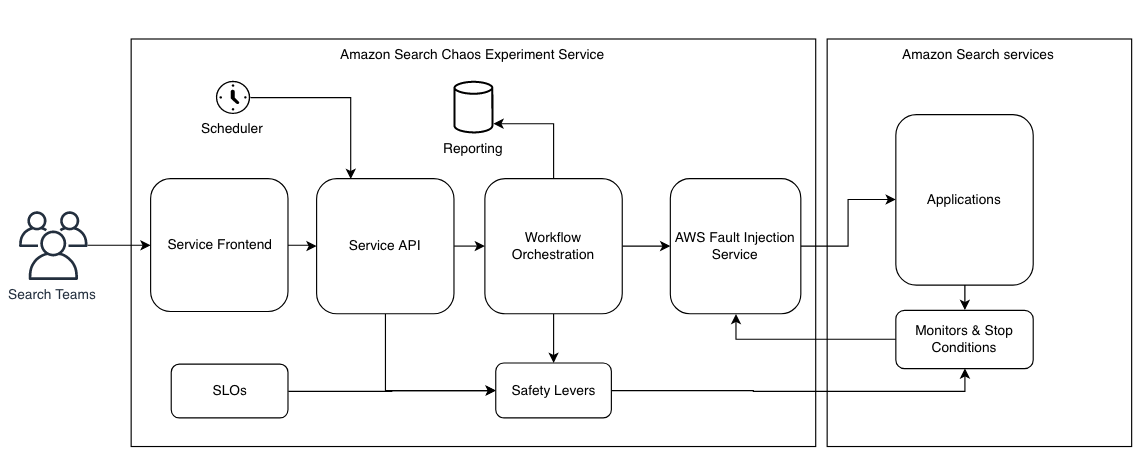
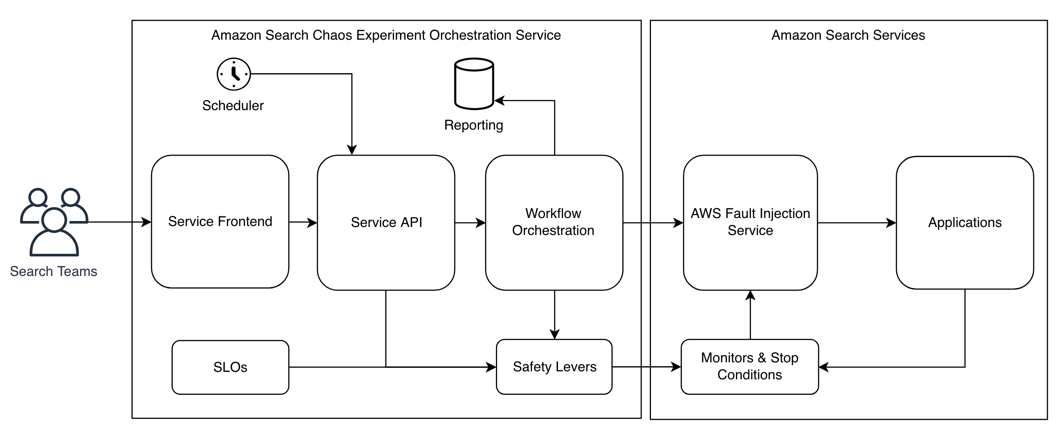
address feedback

Changed region(s): [[0.0, 0.0297, 0.9944, 0.9817], [0.7768, 0.238, 0.9011, 0.2677], [0.435, 0.8924, 0.5593, 0.9222]]

diff --git a/posts/amazon-search-chaos-engineering-journey/index.md b/posts/amazon-search-chaos-engineering-journey/index.md
@@ -13,7 +13,8 @@ authorName: Gorik Van Steenberge
 additionalAuthors:
   - authorGithubAlias: adhorn
     authorName: Adrian Hornsby
-  - authorName: Takieddine Sbiai
+  - authorGithubAlias: takieddine-sbiai
+    authorName: Takieddine Sbiai
   - authorName: Milosz Kosmider
 date: 2023-11-20
 ---
@@ -21,73 +22,82 @@ date: 2023-11-20
 |ToC|
 |---|
 
-Our [previous blog post](https://community.aws/posts/how-search-uses-chaos-engineering) provided an overview of how Amazon Search combines technology and culture to empower its builder teams, ensuring platform resilience through Chaos Engineering. In this follow-up, we will address questions and feedback received from the previous post. We will discuss our Search Resilience team, detailing our progression from running load tests in the production environment to adopting chaos engineering and conducting numerous large-scale experiments. We'll also explore the journey that brought us to this point and delve into the practical aspects and key milestones of this implementation.
+Our [previous blog post](/posts/how-search-uses-chaos-engineering) provided an overview of how Amazon Search combines technology and culture to empower its builder teams, ensuring platform resilience through chaos engineering. In this follow-up, we will address questions and feedback received from the previous post. We will discuss our Search Resilience team, detailing our progression from running load tests in the production environment to adopting chaos engineering and conducting numerous large-scale experiments. We'll also explore the journey that brought us to this point and delve into the practical aspects and key milestones of this implementation.
 
-## The first Search GameDay
+## The first Search GameDay in production
 
 Amazon Search owns the product search pages for Amazon mobile apps and websites worldwide. Serving search pages depends on a complex distributed system consisting of dozens of critical services: from the actual information retrieval search engine to rendering search pages with product images, pricing, delivery, and related information.
 
 ![Amazon search results page showing results for the query: chaos engineering](images/figure1.png "Figure 1. Amazon Search returns over 1,000 results for \"chaos engineering\"")
 
-There are dozens of teams building product search, but today we will talk about our Search Resilience team that improves the resilience of Amazon Search by running chaos experiments in production and driving and promoting resilience initiatives. The Resilience team is part of a larger [Operational Excellence](https://docs.aws.amazon.com/wellarchitected/latest/operational-excellence-pillar/welcome.html) organization within Search with the vision to make it effortless for service owners to run their services in production, so they can focus on their primary mission of improving the customer experience by providing the most relevant search results as fast as possible.
+There are dozens of teams building product search, but today we will talk about our Search Resilience team that improves the resilience of Amazon Search by enabling running chaos experiments in production at scale and driving and promoting resilience initiatives. The Resilience team is part of a larger [Operational Excellence](https://docs.aws.amazon.com/wellarchitected/latest/operational-excellence-pillar/welcome.html?sc_channel=el&sc_campaign=resilience&sc_geo=mult&sc_country=mult&sc_outcome=acq&sc_content=amazon-search-chaos-engineering-journey) organization within Search with the vision to make it effortless for service owners to run their services in production, so they can focus on their primary mission of improving the customer experience by providing the most relevant search results as fast as possible.
 
-Many years ago, our team was scaling up Search services to prepare for a sales event with a large projected increase in traffic. As was Standard Operating Procedure (SOP) at the time, we tested the performance of each service (e.g., TPS per server), added a safety buffer in case traffic would be higher than forecasted, and then scaled out the fleets horizontally. As the peak of customer requests during the event arrived, we were suddenly unable to serve some customer requests.
+Many years ago, our team was scaling up Search services to prepare for a sales event with a large projected increase in traffic. As was Standard Operating Procedure (SOP) at the time, we tested the performance of each service (e.g., Transaction-Per-seconds per server), added a safety buffer in case traffic would be higher than forecasted, and then scaled out the fleets horizontally. As the peak of customer requests during the event arrived, we were suddenly unable to serve some customer requests.
 
-We performed a [Correction of Errors (COE, aka “postmortem”)](https://aws.amazon.com/blogs/mt/why-you-should-develop-a-correction-of-error-coe/) to deep dive into the problem and identify corrective actions to prevent any recurrence. We arrived at two key insights: First, the bottleneck in our system had shifted without our awareness. It was no longer centered on the servers managing product indices. Instead, the bottleneck had migrated upstream to the component responsible for aggregating search requests across various indices. Second, we had reached a point where Search had grown so much in response to customer needs, that no individual engineer fully understood all bottlenecks, thresholds, queues, and failover mechanisms. A corrective action from this COE was to implement end-to-end production load tests of the fully scaled up system before peak, also known as [GameDays](https://www.usenix.org/conference/lisa11/gameday-creating-resiliency-through-destruction). This was to test our scaling methodology (and confirm the bottleneck is where we expected it), performance benchmarks, and resiliency mechanisms against the actual reality of the production environment’s scale, configuration, and customer behavior.
+We performed a [Correction of Error (COE)](https://aws.amazon.com/blogs/mt/why-you-should-develop-a-correction-of-error-coe?sc_channel=el&sc_campaign=resilience&sc_geo=mult&sc_country=mult&sc_outcome=acq&sc_content=amazon-search-chaos-engineering-journey), which is Amazon's process for post-incident analysis, to deep dive into the problem and identify corrective actions to prevent any recurrence. We arrived at two key insights: First, the bottleneck in our system had shifted without our awareness. It was no longer centered on the servers managing product indices. Instead, the bottleneck had migrated upstream to the component responsible for aggregating search requests across various indices. Second, we had reached a point where Search had grown so much in response to customer needs, that no individual engineer fully understood all bottlenecks, thresholds, queues, and failover mechanisms. 
 
-## Embracing Chaos Engineering
+A corrective action from this COE was to implement end-to-end production load tests of the fully scaled up system before peak, also known as [GameDays](https://www.usenix.org/conference/lisa11/gameday-creating-resiliency-through-destruction). We conducted this tests to specifically assess three aspects: 1) our scaling methodology and validate the expected bottleneck location, 2) our performance benchmarks, and 3) the effectiveness of our resilience mechanisms against the actual reality of the production environment’s scale, configuration, and customer behavior.
 
-As we added production GameDays to our SOPs for peak readiness, Amazon continued growing with new peak events such as [Prime Day](https://aws.amazon.com/blogs/aws/prime-day-2023-powered-by-aws-all-the-numbers/) occurring throughout the year and across the globe. Search grew along, with higher query volumes, bigger indexes, and even more services to deliver a better search experience. The next bottleneck we encountered was our engineer resources. Our team's workload for preparing for peak events was steadily increasing, and simply adding more staff in proportion to the growth of Search shouldn't be the first answer. Another problem we encountered was the infrequent use of our load generation tools, which were employed only a few times per year to test a system that had undergone numerous changes since the previous test. This often resulted in the realization that the tools were generating traffic that didn't accurately reflect current traffic patterns. For example, after a peak event, we would find that we had either over-loaded or under-loaded some services, and neither of those results gave us sufficient confidence in our resilience.
+## Embracing GameDays at scale in production
+
+As we added production GameDays to our SOPs for peak readiness — being prepared for high-demand periods —, Amazon continued expanding, experiencing new peak events such as [Prime Day](https://aws.amazon.com/blogs/aws/prime-day-2023-powered-by-aws-all-the-numbers?sc_channel=el&sc_campaign=resilience&sc_geo=mult&sc_country=mult&sc_outcome=acq&sc_content=amazon-search-chaos-engineering-journey) that took place globally and throughout the year. Search grew along, with higher query volumes, bigger indexes, and even more services to deliver a better search experience. The next bottleneck we encountered was our engineer resources. Our team's workload for preparing for peak events was steadily increasing, and simply adding more staff in proportion to the growth of Search shouldn't be the first answer. Another problem we encountered was the infrequent use of our load generation tools, which were employed only a few times per year to test a system that had undergone numerous changes since the previous test. This often resulted in the realization that the tools were generating traffic that didn't accurately reflect current traffic patterns. For example, after a peak event, we would find that we had either over-loaded or under-loaded some services, and neither of those results gave us sufficient confidence in our resilience.
 
 We call this problem “traffic fidelity”. The test traffic we generate should be representative of real customer behavior so we test the system (and its dependencies) in a realistic way with realistic load. One of the complexities in Search is that the service load depends on a number of parameters of a request: searching all products in the US on the desktop website has a very different performance profile than searching Kindle books in Mexico from the Amazon app. Even the customer keywords can impact which services are invoked and their performance. Generating synthetic traffic to meet forecasted thresholds along these parameters becomes a hard problem in a large distributed system such as Search: the potential code paths a request can take across dozens of services is too large for any single person to understand. There are also hard limitations, for example, we have to mark our traffic as robot to avoid polluting business metrics.
 
 We were able to solve the challenges of 1) scaling a complex system for peak sales events and 2) validating readiness through one key insight: we needed to be ready and resilient all the time, not just for peak events, but for any traffic spike. We had to massively reduce the cost of running a GameDay and set a goal to fully automate the process. We prioritized a systems and software development effort to enable “one-click GameDays” with zero operator actions or monitoring required. As a result of this effort, we can now run fully automated load and stress tests of varying traffic volumes. These allow us to catch regressions in the architecture or in traffic fidelity shortly after they manifest, instead of during the weeks and days leading up to a peak event. The sooner you detect an issue, the fewer commits and deployments you have to investigate to figure out what changed.
 
-We also learned that validating readiness requires more than a GameDay with good traffic fidelity. Even if we have tooling that can perfectly generate load with arbitrary traffic fidelity, we still cannot perfectly predict customer behavior on Prime Day. To mitigate this risk, we also invested in building (and validating in production!) emergency levers (e.g., to shed load), on-call engineer readiness via fire drills, reviewing SOPs and their last execution days, emergency scaling procedures, etc.
+We also learned that validating readiness requires more than a GameDay with good traffic fidelity. Even if we have tooling that can perfectly generate load with arbitrary traffic fidelity, we still cannot perfectly predict customer behavior on Prime Day. To mitigate this potential risk, we allocated resources to construct and validate [emergency levers](https://docs.aws.amazon.com/wellarchitected/latest/framework/rel_mitigate_interaction_failure_emergency_levers.html?sc_channel=el&sc_campaign=resilience&sc_geo=mult&sc_country=mult&sc_outcome=acq&sc_content=amazon-search-chaos-engineering-journey) (tested in production environments) such as load shedding mechanisms, preparedness of on-call engineers through simulated emergency scenarios, periodic review of SOPs and their recent execution history, as well as the development of emergency scaling protocols, among other strategies.
 
-After this GameDay automation effort, we acknowledge that we are essentially implementing chaos engineering, albeit without explicitly labeling it as such. We conduct experiments by introducing additional load into the system, operating on the hypothesis that there will be no decrease in availability. These experiments take place in the production environment, which aligns with the environment customers utilize, ensuring the highest level of confidence in the results. From an engineering point of view, this is fully automated with multiple safety guard rails.
+## Towards chaos engineering in production
 
-We realized this pattern of full automation could be applied to other experiment types, and not just GameDays. We could inject latency, take down Availability Zones, blackhole packets, etc., for services in Search, increasing availability for customers without creating extra work for service owners.
+Following our GameDay automation initiative, we understood its applicability beyond GameDays to various other types of experiments. For instance, we could introduce latency, impair our ability to run across multiple Availability Zones, or employ packet blackholing in Search services, enhancing customer availability without imposing additional tasks on service owners. This expansion aligns with our objective of leveraging automation to enhance service reliability and customer experience.
 
-## Building a chaos experiment orchestrator on AWS with FIS
+We were now ready to implement chaos engineering at scale across all Search services. Our approach involves conducting experiments by deliberately increasing system load, operating under the assumption that availability won't be compromised. These tests are executed in the production environment, mirroring the conditions customers encounter, ensuring the highest level of confidence in the results. From an engineering perspective, this process is entirely automated and incorporates multiple safety measures to prevent mishaps.
 
-How could we scale our relatively small team to create, execute, and maintain hundreds of experiments across all of Search? How could we handle the combinatorial explosion of potential experiments ( = failure injection types x experiment parameters x participating services)? We can’t possibly manually maintain hundreds of experiments, including the steady state measurements (meaning the normal operating conditions of the system) and experiment parameters (e.g., how much latency to inject) that can gradually deteriorate as Search evolves its architecture.
+Despite our achievements, one pressing question remained.
 
-Building on our success with automating GameDays, we made an inventory of all commonalities and manual efforts required to run a generic chaos experiment in production:
+How can our small team effectively manage the creation, execution, and upkeep of hundreds of experiments across the entirety of Search? Moreover, how can we address the overwhelming possibilities resulting from numerous fault injection types, experiment parameters, and involved services? The manual maintenance of such a vast number of experiments, including steady state measurements and evolving experiment parameters, becomes impractical as Search continues to evolve its architecture.
 
-1. Guard rails to limit blast radius of experiments
-2. Automatic experiment shutdown in case of a steady state disruption (i.e., unintended customer impact)
-3. Provisioning infrastructure (e.g., chaos injecting agents, sidecar containers, AWS resources)
-4. Regular executions to catch regressions early
-5. Escalation with service owners in case of regressions
+## Building a chaos experiment orchestration service on AWS with FIS
 
-We call these efforts “undifferentiated heavy lifting” because they are duplicate toil across multiple teams and services. While this work benefits the customer in terms of higher availability, it does not directly contribute to service owners’ missions of improving the customer experience through delivering new features, better ranking, etc. We wanted to build a chaos experiment orchestrator to automate all this heavy lifting, but were wary of the recurring costs in terms of operating and maintaining such a service. We also knew introducing failures in production is a scary proposition to sell, and any unintended impact would set back the adoption of chaos engineering. These were strong motivations to build something simple to understand, maintain, and troubleshoot.
+Building on our success with automating GameDays, we made an inventory of all commonalities and manual efforts required to run chaos experiments in production:
 
-At Amazon, we use tenets to facilitate making hard decisions and trade-offs between our leadership principles. For example, how can we reconcile our Customer Obsession leadership principle with experimenting in production and affecting actual customer requests? It was useful to write down these tenets and reach a consensus with the team *before* we encounter these difficult decisions. Here is what we came up with:
+1. Implement guard rails to prevent or limit customer impact during experiments.
+2. Automatically shut down experiments if there's a disruption in the steady state, meaning unintended customer impact.
+3. Set up infrastructure provisioning, such as chaos injecting agents, sidecar containers, and AWS resources.
+4. Execute experiments regularly to detect regressions at an early stage.
+5. If regressions occur, escalate the issue to service owners.
+
+We call these efforts “undifferentiated heavy lifting” because they are duplicate toil across multiple teams and services. While this work benefits the customer in terms of higher availability, it does not directly contribute to service owners’ missions of improving the customer experience through delivering new features, better ranking, etc. We wanted to build a chaos experiment orchestration service to automate all this heavy lifting, but were wary of the recurring costs in terms of operating and maintaining such a service. We also knew introducing failures in production is a scary proposition to sell, and any unintended impact would set back the adoption of chaos engineering. These were strong motivations to build something simple to understand, maintain, and troubleshoot.
+
+At Amazon, we use tenets to facilitate making hard decisions and trade-offs between our [leadership principles](https://www.aboutamazon.com/about-us/leadership-principles). For example, how can we reconcile our Customer Obsession leadership principle with experimenting in production and affecting actual customer requests? It was useful to write down these tenets and reach a consensus with the Search team *before* we encounter these difficult decisions. Here is what we came up with:
 
 1. Controlled customer impact is preferred to unexpected customer impact during peak traffic.
-2. Every experiment tests a hypothesis. We don’t test in production when alternatives are available.
-3. We use fail-safes and heartbeats for chaos experiments, rather than requiring active kill signals.
-4. We prioritize [crash-only](https://en.wikipedia.org/wiki/Crash-only_software) models over adding complexity for error-handling and recovery.
-5. We implement multiple fail-safes and guardrails because we recognize that bugs will happen.
+2. Every experiment tests a hypothesis.
+3. We don’t test in production when alternatives are available.
+4. We rely on fail-safes and heartbeats in chaos experiments, allowing the system to proactively stop disruptive experiments without needing an external signal to terminate them.
+5. We prioritize [crash-only](https://en.wikipedia.org/wiki/Crash-only_software) models over adding complexity for error-handling and recovery.
+6. We implement multiple fail-safes and guardrails because we recognize that bugs will happen.
 
-With these tenets in mind, we set out to deliver a simple chaos experiment orchestrator starting with a [Cloud Development Kit (CDK)](https://aws.amazon.com/cdk/) library for internal Search teams. We automated the creation of Identity and Access Management (IAM) permissions and roles, AWS Fault Injection Service (FIS) experiments, and CloudWatch monitors, which measure steady state and [stop conditions](https://docs.aws.amazon.com/fis/latest/userguide/stop-conditions.html) for FIS. This allows service owners to deploy all the essential infrastructure needed for chaos experiments into their AWS accounts using just one CDK statement. We can then define experiments in a concise 10–15 lines of YAML and seamlessly deploy it alongside their infrastructure pipelines. This approach eliminates the complexities and repetitive tasks associated with preparing a service for conducting safe chaos experiments.
+With these [tenets](https://aws.amazon.com/blogs/enterprise-strategy/tenets-supercharging-decision-making/) in mind, we set out to deliver a simple chaos experiment orchestrator starting with a [Cloud Development Kit (CDK)](https://aws.amazon.com/cdk?sc_channel=el&sc_campaign=resilience&sc_geo=mult&sc_country=mult&sc_outcome=acq&sc_content=amazon-search-chaos-engineering-journey) library for internal Search teams. We automated the creation of [Identity and Access Management (IAM)](https://docs.aws.amazon.com/IAM/latest/UserGuide/introduction.html?sc_channel=el&sc_campaign=resilience&sc_geo=mult&sc_country=mult&sc_outcome=acq&sc_content=amazon-search-chaos-engineering-journey) permissions and roles, [AWS Fault Injection Service (FIS)](https://docs.aws.amazon.com/fis/latest/userguide/what-is.html?sc_channel=el&sc_campaign=resilience&sc_geo=mult&sc_country=mult&sc_outcome=acq&sc_content=amazon-search-chaos-engineering-journey) experiments, and CloudWatch monitors, which measure steady state and [stop conditions](https://docs.aws.amazon.com/fis/latest/userguide/stop-conditions.html?sc_channel=el&sc_campaign=resilience&sc_geo=mult&sc_country=mult&sc_outcome=acq&sc_content=amazon-search-chaos-engineering-journey) for FIS. This allows service owners to deploy all the essential infrastructure needed for chaos experiments into their AWS accounts using just one CDK statement. We can then define experiments in a concise 10–15 lines of YAML and seamlessly deploy it alongside their infrastructure pipelines. This approach eliminates the complexities and repetitive tasks associated with preparing a service for conducting safe chaos experiments.
 
-Next, we used AWS EventBridge [scheduled rules](https://docs.aws.amazon.com/eventbridge/latest/userguide/eb-create-rule-schedule.html) as a “cron in the cloud” to run experiments automatically at a monthly or bi-weekly cadence. EventBridge invokes an AWS Lambda function that holds the business logic of our chaos experiment orchestrator. This Lambda verifies our guardrails so that we don’t run experiments during peak sales events or when there is an operational incident ongoing. It keeps experiment history in DynamoDB, and emits both operational and business metrics to CloudWatch. We use S3 to host a website and API Gateway to enable internal customers to invoke and monitor their experiments from the website. Experiment lifecycles and injecting faults are completely managed by FIS. Finally, we use AWS SSM Parameter Store to manage hierarchical safety levers. We have a top-level safety lever that will immediately halt all experiments everywhere. Anyone in Search can pull this lever if they suspect a chaos experiment is causing unintended customer impact. We also have more granular levers to halt all experiments for a service, or just a single specific experiment.
+Next, we used AWS EventBridge [scheduled rules](https://docs.aws.amazon.com/fis/latest/userguide/fis-tutorial-recurring-experiment.html?sc_channel=el&sc_campaign=resilience&sc_geo=mult&sc_country=mult&sc_outcome=acq&sc_content=amazon-search-chaos-engineering-journey) as a “cron in the cloud” to run experiments automatically at a monthly or bi-weekly cadence. EventBridge invokes an AWS Lambda function that holds the business logic of our chaos experiment orchestrator. This Lambda verifies our guardrails so that we don’t run experiments during peak sales events or when there is an operational incident ongoing. It keeps experiment history in DynamoDB, and emits both operational and business metrics to CloudWatch. We use Amazon Simple Storage Service (S3) to host a website and API Gateway to enable internal customers to invoke and monitor their experiments from the website. Experiment lifecycles and injecting faults are completely managed by FIS. Finally, we use AWS SSM Parameter Store to manage hierarchical safety levers. We have a top-level safety lever that will immediately halt all experiments everywhere. Anyone in Search can pull this lever if they suspect a chaos experiment is causing unintended customer impact. We also have more granular levers to halt all experiments for a service, or just a single specific experiment.
 
-![Architecture diagram showing a system for chaos experimentation orchestration across Search](images/figure3.png "Figure 2. A system for chaos experimentation orchestration across Search")
+![Architecture diagram showing a system for chaos experiment orchestration service across Search](images/figure3.png "Figure 2. A system for chaos experiment orchestration service across Search")
 
-## Measuring Steady State with SLOs and Error Budgets
+## Measuring steady state with SLOs and error budgets
 
 Each chaos experiment needs to measure the steady state (a service’s normal operating conditions). These are usually metrics like orders per minute, latency, availability, etc. To stay true to our vision to make it effortless to run services in production, we had to figure out a way to measure steady state without generating extra work for service owners.
 
-The first problem we had to solve was how do we actively cause controlled chaos in production without triggering pages for service on-calls? After all, if we inject latency into a service, it is reasonable to expect that a latency alarm will trip and page an on-call. In principle, on-calls should only be paged for unexpected (and actionable!) issues, a scheduled chaos experiment is definitely not unexpected.
+The first problem we had to solve was how do we actively cause controlled chaos in production without triggering pages for service on-calls? After all, if we inject latency into a service, it is reasonable to expect that a latency alarm will trip and page an on-call. On-call personnel should ideally only get alerted for sudden problems they can fix. A planned chaos experiment isn't a surprise, so it doesn't need an immediate alert.
 
-We considered consulting with every single service team to re-evaluate their existing alarming thresholds by carefully tweaking thresholds and alarming windows, but then quickly realized this approach would never scale to dozens of services due to the manual effort required. We also considered creating a second set of alarms just to measure steady state. We dismissed this approach too as it also would not scale to manually maintain these: As an Operational Excellence team, we are familiar with undetected or prolonged outages caused by system changes that weren't accompanied by updates to the alarming thresholds or metrics to account for these changes.
+We thought about consulting each service team to adjust their alarm settings, but we realized it wouldn't work for many services—there's too much manual work involved. We also thought about making a separate set of alarms for regular system behavior, but that wouldn't be practical to maintain either. We've seen problems before where system changes weren't matched with updated alert settings, causing hidden or long-lasting issues, and we don't want that.
 
 Our solution was to leverage Service Level Objectives (SLO). An SLO is a target value or range of values for a service level that is measured by a Service-Level Indicator (SLI). An SLI is a defined quantitative measure of some aspect of the level of service that is provided to customers of that service. Most services consider request latency—how long it takes to return a response to a request—as a key SLI. Other common SLIs include the error rate, often expressed as a fraction of all requests received, and system throughput, typically measured in requests per second. For example, a service may commit to returning results with a latency of less than 1200ms for at least 99.9% of all requests in a given trailing 30-day window. With this example SLO of 99.9%, we also get a 0.1% “error budget” where errors (failures, down-time, latency spikes) are allowed to occur without breaching the SLO.
 
-We developed an SLO monitoring service and promoted the adoption of SLOs throughout the Search organization. Our goal was to establish a single, authoritative source of truth regarding the expected availability and latency of our services for customers, such as aiming for 99.99% availability. This would grant us an error budget of 0.01% that we could utilize for regular deployments, A/B tests, and, of course, chaos experiments. Having an SLO in place provides an automated means to measure steady state. If your error budget depletes during an experiment, it triggers an automatic abort. Similarly, if the rate at which your error budget is depleting changes, we also initiate an automatic abort. During normal operation of your service, you actually expect to consume some of your error budget. If this natural depletion rate suddenly changes during execution of a chaos experiment, that’s a clear indicator an engineer should investigate if there was a regression. If you also use budget burn-rate alarming to page on-call personnel, you can reduce the amount of monitors you need to maintain for both operational incidents and chaos experiments. Finally, if a service has already exhausted its error budget, we don’t schedule experiments to prioritize the customer experience.
+We developed an SLO monitoring service and promoted the adoption of SLOs throughout the Search organization. Our goal was to establish a single, authoritative source of truth regarding the expected availability and latency of our services for customers, such as aiming for 99.99% availability. This would grant us an error budget of 0.01% that we could utilize for regular deployments, A/B tests, and, of course, chaos experiments. Having an SLO in place provides an automated means to measure steady state. If your error budget depletes during an experiment, it triggers an automatic abort. Similarly, if the rate at which your error budget is depleting changes, we also initiate an automatic abort. During normal operation of your service, you actually expect to consume some of your error budget. If this natural depletion rate suddenly changes during execution of a chaos experiment, that’s a clear indicator an engineer should investigate if there was a regression. If you use budget burn-rate alerts to notify on-call staff, you can cut down on the number of monitors you have to manage for both regular issues and chaos experiments. And perhaps most importantly, we prioritize the customer experience. If a service has already exhausted its error budget, we don’t schedule any experiments.
+
+Error budgets are replenished using a sliding window approach that observes a specific timeframe, typically in days or weeks. Let's say you have an error budget that allows a certain percentage of errors over a defined period, like a month. As incidents occur and consume your error budget, they gradually affect your available budget within that timeframe. With the sliding window method, as time progresses, older incidents drop out of the window's calculation. For instance, if you're looking at a 28-day window, after a day, the oldest day in the window falls out, and the newest day enters. This continuous sliding mechanism ensures that your error budget is based on a recent timeframe, accounting for new incidents while allowing older ones to no longer impact the current budget. So, as time passes, incidents that occurred earlier will no longer contribute to the current error budget, effectively replenishing it as the sliding window moves forward. This way, the error budget is a dynamic measure that reflects recent system performance, encouraging teams to focus on resolving issues promptly to maintain a healthy error budget for future use.
 
 There's an additional layer of complexity when using burn rates to gauge steady state that's worth exploring. We can categorize chaos experiments into two groups:
 
@@ -100,10 +110,10 @@ In practice, we assess the burn rate both before and after the experiment and ma
 
 We currently conduct a set of default experiments across all our services. These experiments encompass:
 
-1. Instance Termination: testing the system's resilience when an instance is terminated.
+1. Instance Termination: testing the system's resilience to a loss of compute resources.
 2. Latency Injection: introducing latency to assess the system's performance under degraded network conditions.
-3. Packet Black-holing: investigating how the system behaves when packets are intentionally dropped.
-4. Emergency Levers: activation of emergency levers (e.g., load shedding via graceful degradation) to ensure they work without encountering issues when they are most needed.
+3. Packet Black-holing: investigating how the system recovers under 100% packet loss.
+4. Emergency Levers: activation of emergency levers (e.g., turning off features to reduce load) to ensure they work without encountering issues when they are most needed.
 
 Considering the multitude of services within Search, spanning various teams and organizations, it is important to provide leaders with visibility into their organization's operational excellence and resilience. To achieve this, we implemented two mechanisms:
 
@@ -117,13 +127,15 @@ It is important to note that we strongly support the third case, encouraging ser
 
 The second mechanism is an SLO report for leaders that provides insights into the SLOs of all services in their organization. We currently require availability and latency SLOs. We do not separately track errors (e.g., a search page widget failing to render) or coverage (e.g., only partial search results). We consider these as availability issues because we are unable to deliver the intended customer experience, regardless of the underlying technical root cause. We track latency as a separate SLO because our larger organization has specific goals around protecting and reducing latency, as well as reporting on it.
 
-This SLO report has the following KPIs:
+This SLO report has the following operational metrics:
 
 1. SLO Last Revision Time: we document when the SLO was last revised, meaning SLIs (metrics) were added or removed, or thresholds were modified upwards or downwards.
 2. SLO Breach Duration: we track the total duration in minutes that a specific SLO revision has spent in breach. This means when the error budget is zero or in the negative range.
 3. SLO Coverage: we assess whether all SLOs (availability and latency) are present and actively monitored for a particular service.
 
-We chose these KPIs to provide the right insights and influence leaders to ask the right questions. The SLO Last Revision Time is important because customer expectations and business priorities change over time. An SLO that has not been revised for a long time may no longer be the right objective to pursue. We chose SLO Breach Duration because we do not want to penalize teams for breaching SLOs. Setting good SLOs by choosing the right customer-facing SLIs and thresholds is hard. It is an ongoing process and not a one-time effort. By exposing how long an SLO is in a breaching state we encourage leaders to pay attention to their SLO setting process, not to single out teams for breaches. Finally, SLO Coverage ensures services are thinking about how to measure their intended customer experience and actually have SLOs in place.
+![Example SLO Compliance Dashboard](images/figure4.png "Figure 3. Example SLO Compliance Dashboard")
+
+We chose these metrics to provide the right insights and influence leaders to ask the right questions. The SLO Last Revision Time is important because customer expectations and business priorities change over time. An SLO that has not been revised for a long time may no longer be the right objective to pursue. We chose SLO Breach Duration because we do not want to penalize teams for breaching SLOs. Setting good SLOs by choosing the right customer-facing SLIs and thresholds is hard. It is an ongoing process and not a one-time effort. By exposing how long an SLO is in a breaching state we encourage leaders to pay attention to their SLO setting process, not to single out teams for breaches. Finally, SLO Coverage ensures services are thinking about how to measure their intended customer experience and actually have SLOs in place.
 
 In large organizations such as Search, there will always be competing business priorities, goals, and projects. By providing these mechanisms we enable teams to make conscious data-driven trade-offs when prioritizing new feature development versus SLOs and resiliency.
 
